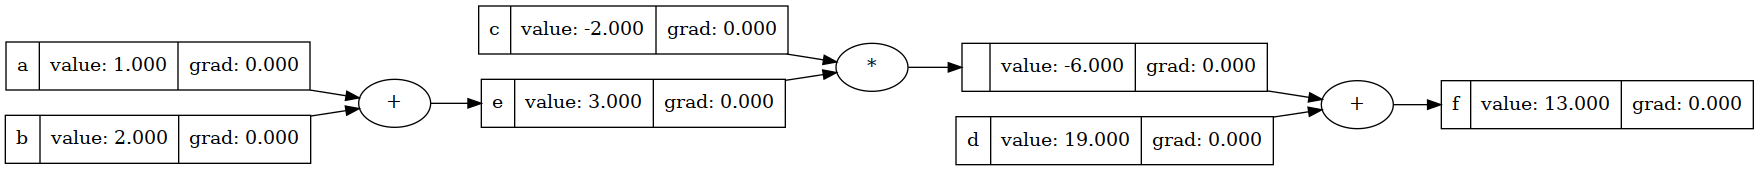
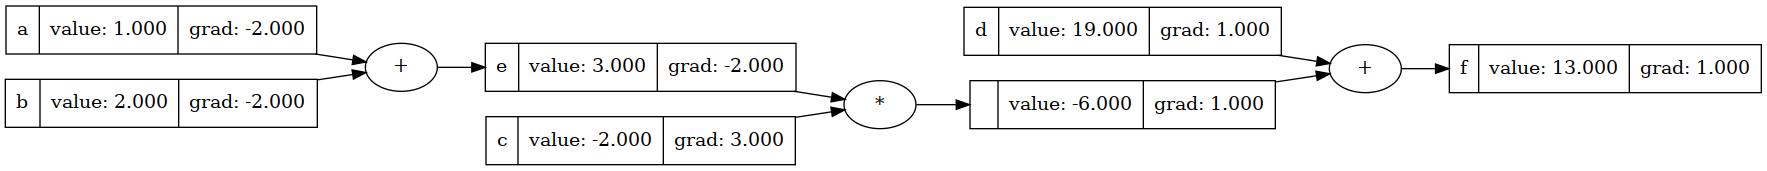
Complete root backward() function to compute all gradients iteratively

diff --git a/src/value.py b/src/value.py
@@ -1,7 +1,7 @@
 from enum import Enum
 import math
 from functools import reduce
-from typing import Set, Tuple, Union
+from typing import List, Set, Tuple, Union
 
 
 # For simplicity (so I don't have to repeat implementation), I have only defined necessary operations
@@ -62,6 +62,25 @@ class Value:
                 case Operation.EXP:
                     assert len(self._children) == 1
                     child.grad += self.data * self.grad
+
+
+
+    def get_children_ordered(self):
+        ordered_nodes: List["Value"] = [self]
+        children_queue: List["Value"]= [self]
+        while len(children_queue) != 0:
+            current = children_queue.pop(0)
+            ordered_nodes = [*ordered_nodes,  *current._children]
+            children_queue = [*children_queue,  *current._children]
+
+        print(ordered_nodes)
+        return ordered_nodes
+
+    def backward(self):
+        self.grad = 1.0
+        ordered_nodes = self.get_children_ordered()
+        for value in ordered_nodes:
+            value._backward()
 
 
     def relu(self):

diff --git a/src/graph.py b/src/graph.py
@@ -15,8 +15,6 @@ def trace_graph(root: Value):
             build(child)
 
     build(root)
-    print(nodes)
-    print(edges)
 
     return nodes, edges
 

diff --git a/src/main.py b/src/main.py
@@ -13,6 +13,7 @@ def main():
     f = e * c + d
     f.label = "f"
 
+    f.backward()
     plot_graph(f)
 
 
